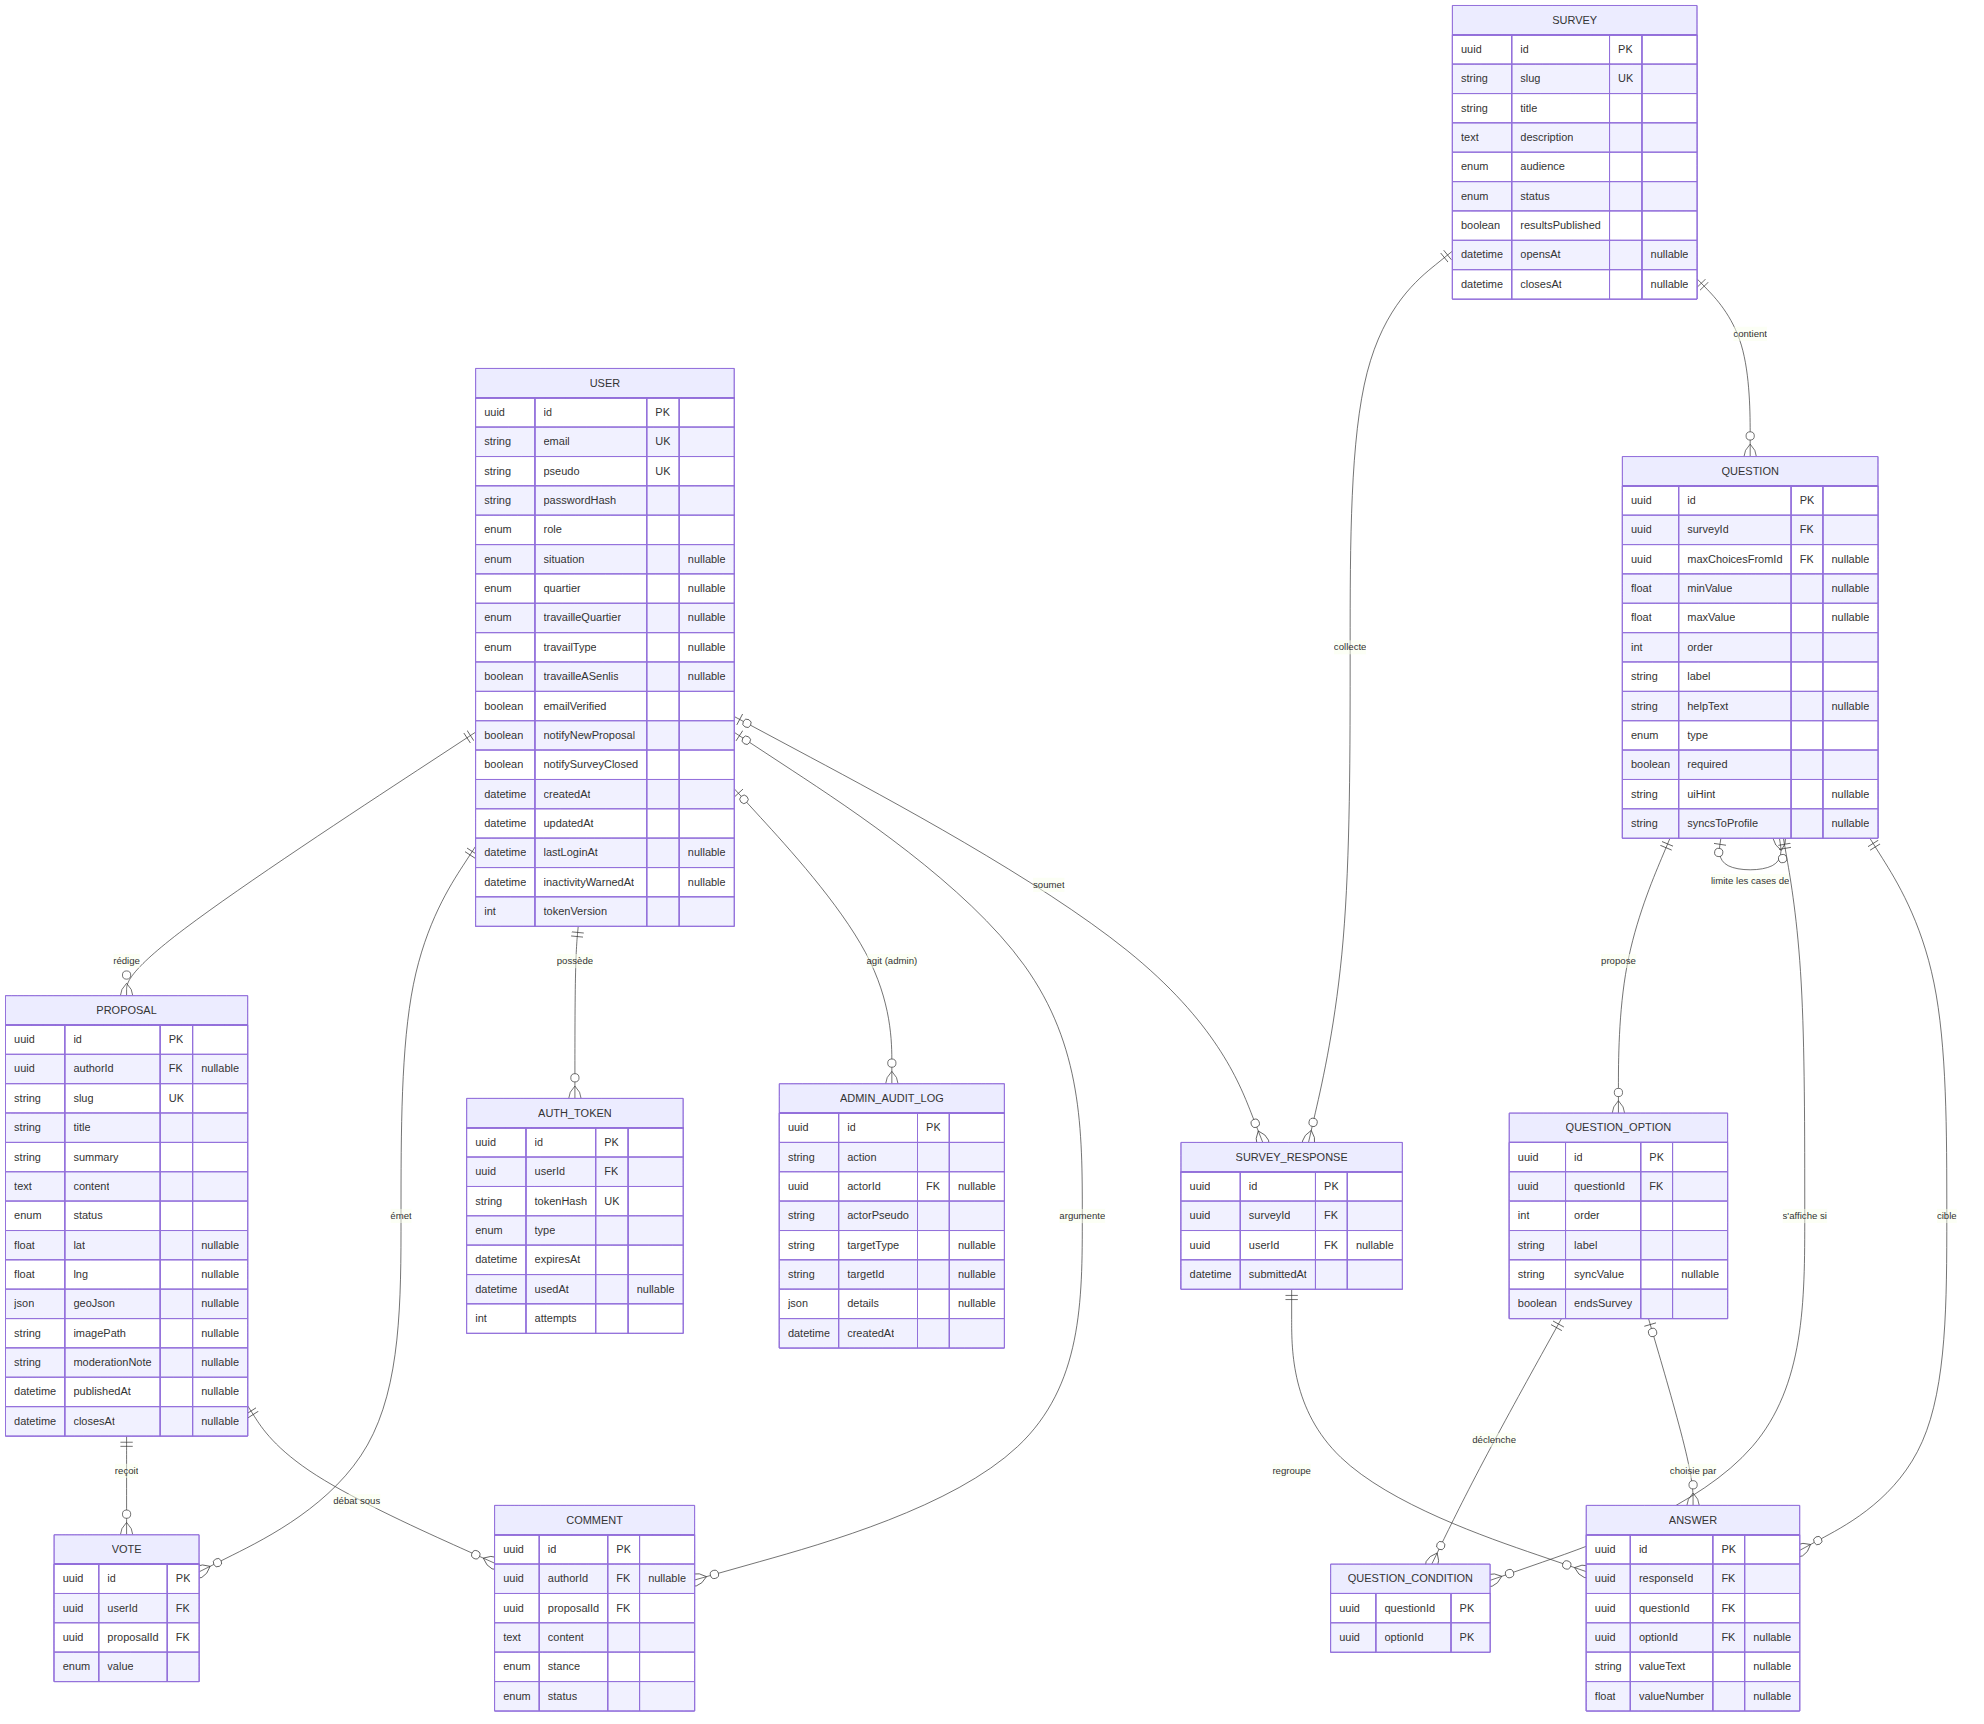
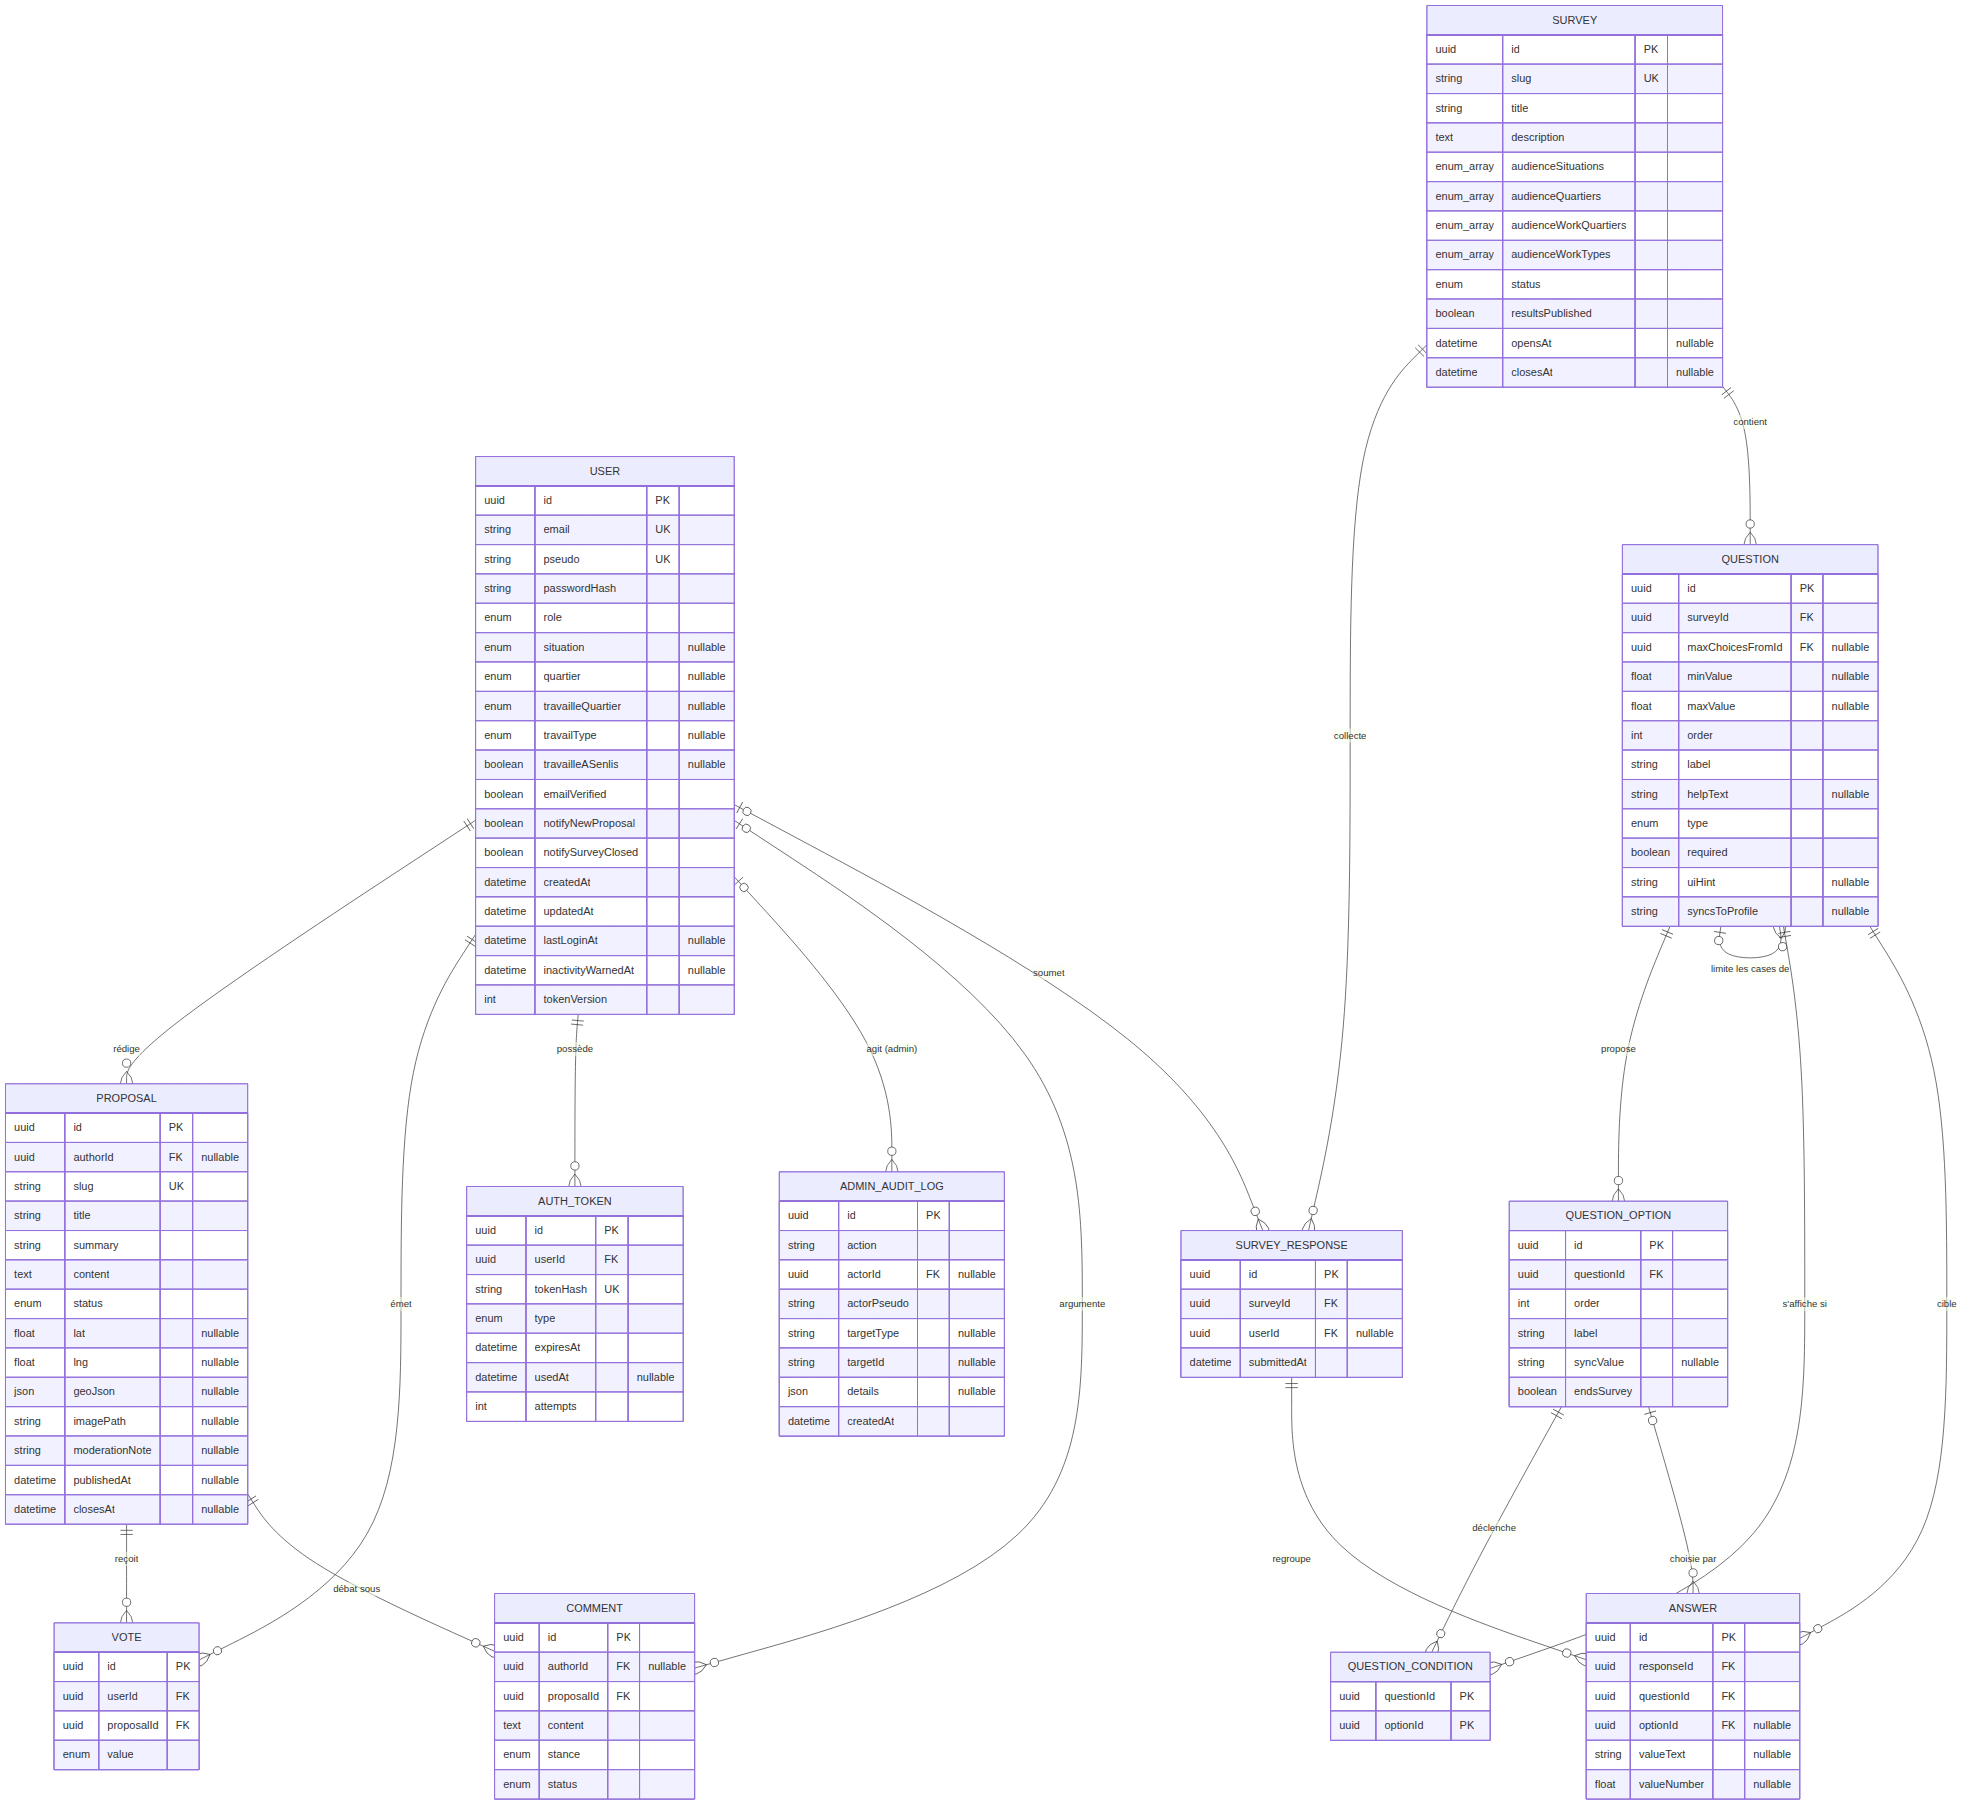
docs: S5R-07 — public visé par critères (01, 02, 03, 08, 19), kanban (16)

diff --git a/08-merise-mcd-mld-mpd.md b/08-merise-mcd-mld-mpd.md
@@ -49,7 +49,7 @@ flowchart TB
     slug
     titre
     description
-    audience
+    public visé (critères de profil)
     statut
     résultats publiés
     dates (ouverture, clôture)"]
@@ -144,7 +144,8 @@ Comment (id, content, stance, status, createdAt, #authorId, #proposalId)
      PK : id · FK : authorId → User(id) [NULLABLE]
      FK : proposalId → Proposal(id)
 
-Survey (id, slug, title, description, audience, status, resultsPublished,
+Survey (id, slug, title, description, audienceSituations, audienceQuartiers,
+        audienceWorkQuartiers, audienceWorkTypes, status, resultsPublished,
         opensAt, closesAt, createdAt)
      PK : id · UNIQUE : slug
 
@@ -182,7 +183,7 @@ Answer (id, valueText, valueNumber, #responseId, #questionId, #optionId)
 
 ## 3. MPD — Modèle Physique de Données (PostgreSQL)
 
-Reconstitution **fidèle** (réordonnée pour la lecture) de ce que génèrent les migrations Prisma (`api/prisma/migrations/`, 12 migrations du 15/06 au 03/10/2026), cumulées. Trois différences avec un SQL « écrit à la main » à connaître :
+Reconstitution **fidèle** (réordonnée pour la lecture) de ce que génèrent les migrations Prisma (`api/prisma/migrations/`, 13 migrations du 15/06 au 03/10/2026), cumulées. Trois différences avec un SQL « écrit à la main » à connaître :
 
 1. **Identifiants en `TEXT`**, pas en `UUID` : `@default(uuid())` génère l'UUID **dans Node** (Prisma), pas dans PostgreSQL (`gen_random_uuid()` n'est jamais appelé).
 2. **Noms entre guillemets en `camelCase`** (`"passwordHash"`) : sans guillemets, PostgreSQL mettrait tout en minuscules.
@@ -198,7 +199,6 @@ CREATE TYPE "Stance"         AS ENUM ('POUR', 'CONTRE', 'NEUTRE');
 CREATE TYPE "TokenType"      AS ENUM ('VERIFY_EMAIL', 'RESET_PASSWORD', 'TWO_FACTOR_LOGIN');
 CREATE TYPE "VoteValue"      AS ENUM ('POUR', 'CONTRE', 'NEUTRE');
 CREATE TYPE "SurveyStatus"   AS ENUM ('DRAFT', 'OPEN', 'CLOSED');
-CREATE TYPE "Audience"       AS ENUM ('TOUS', 'RESIDENTS', 'COMMERCANTS');
 CREATE TYPE "QuestionType"   AS ENUM ('CHOIX_UNIQUE','CHOIX_MULTIPLE',
                                       'NOMBRE','OUI_NON','TEXTE_LIBRE');
 CREATE TYPE "Situation"      AS ENUM ('CENTRE_RESIDENT', 'AUTRE_QUARTIER', 'HORS_SENLIS');
@@ -287,7 +287,11 @@ CREATE TABLE "Survey" (
   "slug"             TEXT NOT NULL,
   "title"            TEXT NOT NULL,
   "description"      TEXT NOT NULL,
-  "audience"         "Audience" NOT NULL DEFAULT 'TOUS',
+  -- S5R-07 : public visé par critères de profil (listes vides = tout le monde)
+  "audienceSituations"    "Situation"[]   DEFAULT ARRAY[]::"Situation"[],
+  "audienceQuartiers"     "Quartier"[]    DEFAULT ARRAY[]::"Quartier"[],
+  "audienceWorkQuartiers" "Quartier"[]    DEFAULT ARRAY[]::"Quartier"[],
+  "audienceWorkTypes"     "TravailType"[] DEFAULT ARRAY[]::"TravailType"[],
   "status"           "SurveyStatus" NOT NULL DEFAULT 'DRAFT',
   "resultsPublished" BOOLEAN NOT NULL DEFAULT false,
   "opensAt"          TIMESTAMP(3),

diff --git a/16-kanban-issues-complet.md b/16-kanban-issues-complet.md
@@ -169,7 +169,7 @@
 | **S5R-05** | **`feat(api+bdd+client): moteur d'enquête v2 — total de questions adapté au parcours, conditions multiples (OU), fin anticipée, bornes min/max d'un nombre, nombre de choix max lié à une réponse, profil « travaille à Senlis » explicite`** ✅ | **`lot:1` `type:feature` `zone:api` `zone:bdd` `zone:client` `prio:haute`** | **`feat/survey-engine-v2`** | **2 j** | **J76–J77** |
 | **S5R-05b** | **`fix(api+client): limiteur des routes d'authentification — réponse JSON lisible (et non « erreur réseau »), seuls les échecs comptent, limite large en développement`** ✅ *(constaté pendant la recette de S5R-05)* | **`lot:1` `type:bug` `zone:api` `zone:client`** | **`fix/auth-rate-limit-json`** | **—** | **J77** |
 | **S5R-06** | **`feat(data+client): enquête stationnement v3 — parcours par profil, questions clés obligatoires, « Autre → laquelle ? », questions propres au centre historique, visiteurs venant en centre-ville ; page de présentation sans le « 34 questions » trompeur (nombre selon le profil)`** ✅ | **`lot:1` `type:feature` `zone:bdd`** | **`feat/parking-survey-v3`** | **1 j** | **J78** |
-| **S5R-07** | **`feat(api+bdd+client): public visé d'une enquête par critères de profil (résidence, quartier, travail, rôle, hors Senlis)`** | **`lot:1` `type:feature` `zone:api` `zone:bdd` `zone:client`** | **`feat/survey-audience-profiles`** | **1 j** | **J79** |
+| **S5R-07** | **`feat(api+bdd+client): public visé d'une enquête par critères de profil (résidence, quartier, travail, rôle, hors Senlis)`** ✅ | **`lot:1` `type:feature` `zone:api` `zone:bdd` `zone:client`** | **`feat/survey-audience-profiles`** | **1 j** | **J79** |
 | **S5R-08** | **`feat(api+client): résultats d'enquête lisibles — filtre par public puis par question, graphiques, export CSV et JSON (secret statistique conservé)`** | **`lot:1` `type:feature` `zone:api` `zone:client` `prio:haute`** | **`feat/survey-results-charts-export`** | **2 j** | **J80–J81** |
 | **S5R-09** | **`feat(client): création d'enquête simplifiée — aides sous chaque champ, exemples, modèle prêt à l'emploi, dupliquer une question`** | **`lot:1` `type:feature` `zone:client`** | **`feat/survey-builder-help`** | **1 j** | **J82** |
 | **S5R-10** | **`feat(api+bdd+client): zone d'une proposition — toute la ville ou quartiers IRIS ; coordonnées et GeoJSON sous « Avancé » ; aides de saisie`** | **`lot:1` `type:feature` `zone:api` `zone:bdd` `zone:client`** | **`feat/proposal-zone-quartiers`** | **1 j** | **J83** |

diff --git a/01-cahier-des-charges-v1.4.md b/01-cahier-des-charges-v1.4.md
@@ -69,7 +69,7 @@ Le projet est porté à titre personnel, hors de tout cadre institutionnel, avec
 
 **Administratrice**
 - Créer / éditer / publier / clore une proposition (point géolocalisé + périmètre GeoJSON)
-- Créer une enquête : questions typées (choix unique, choix multiple, nombre, oui/non, texte libre), audience ciblée (tous / résidents / commerçants)
+- Créer une enquête : questions typées (choix unique, choix multiple, nombre, oui/non, texte libre), public visé par critères de profil (résidence, quartier, travail, rôle, hors Senlis — S5R-07)
 - Ouvrir / clore une enquête, consulter les résultats agrégés (comptages par option, moyennes)
 - Conditionner l'affichage d'une question à une réponse antérieure (branchement), relier une question au profil du répondant
 - Décider **quand** les résultats deviennent publics ; consulter une vue détaillée, segmentée par profil de répondant, imprimable en PDF
@@ -326,7 +326,7 @@ Note : les animations CSS de la mascotte utilisent exclusivement des propriété
 
 **Administrateur**
 - En tant qu'admin, je peux rédiger et publier une proposition géolocalisée afin de lancer une concertation.
-- En tant qu'admin, je peux construire un questionnaire sur mesure (types de questions variés, audience ciblée) sans modification du code afin de lancer de nouvelles enquêtes rapidement.
+- En tant qu'admin, je peux construire un questionnaire sur mesure (types de questions variés, public visé par critères de profil) sans modification du code afin de lancer de nouvelles enquêtes rapidement.
 - En tant qu'admin, je peux consulter les résultats agrégés afin de produire un argumentaire chiffré à présenter à la mairie.
 - En tant qu'admin, je peux segmenter les résultats par profil de répondant (habitant du centre, actif à Senlis, visiteur) et les imprimer en PDF, afin de montrer à la mairie que chaque public a été entendu.
 - En tant qu'admin, je décide du moment où les résultats deviennent publics, afin de les vérifier avant diffusion.

diff --git a/03-dictionnaire-de-donnees.md b/03-dictionnaire-de-donnees.md
@@ -87,7 +87,10 @@
 | slug | String | UNIQUE, NOT NULL | Identifiant d'URL |
 | title | String | NOT NULL | Titre (« Stationnement et déplacements dans le centre historique ») |
 | description | Text | NOT NULL | Contexte affiché en tête du questionnaire |
-| audience | Audience | défaut `TOUS` | Cible : `TOUS` / `RESIDENTS` / `COMMERCANTS` |
+| audienceSituations | Situation[] | défaut `[]` | Public visé, famille RÉSIDENCE : situations visées (S5R-07) |
+| audienceQuartiers | Quartier[] | défaut `[]` | Pour « autre quartier » : lesquels (vide = tous les autres quartiers) |
+| audienceWorkQuartiers | Quartier[] | défaut `[]` | Public visé, famille TRAVAIL : quartiers de travail (vide = n'importe où) |
+| audienceWorkTypes | TravailType[] | défaut `[]` | Rôles visés : dirigeant·e, salarié·e (vide = tous). Toutes les listes vides = tout le monde ; les deux familles se combinent par un OU (voir `lib/audience.js`) |
 | status | SurveyStatus | défaut `DRAFT` | `DRAFT` → `OPEN` → `CLOSED` |
 | resultsPublished | Boolean | défaut `false` | Distinct du statut : l'admin décide quand les résultats deviennent publics (avant : visibles par l'admin seul) |
 | opensAt / closesAt | DateTime | NULL | Fenêtre de collecte |
@@ -177,7 +180,6 @@
 | Stance | POUR, CONTRE, NEUTRE | Position d'un argument (Lot 2) |
 | CommentStatus | PENDING, APPROVED, REJECTED | Modération a priori (Lot 2) |
 | SurveyStatus | DRAFT, OPEN, CLOSED | Cycle de vie d'une enquête |
-| Audience | TOUS, RESIDENTS, COMMERCANTS | Ciblage d'une enquête |
 | QuestionType | CHOIX_UNIQUE, CHOIX_MULTIPLE, NOMBRE, OUI_NON, TEXTE_LIBRE | Type de saisie d'une question |
 | TokenType | VERIFY_EMAIL, RESET_PASSWORD, TWO_FACTOR_LOGIN | Nature d'un jeton email (lien ou code 2FA admin) |
 | Situation | CENTRE_RESIDENT, AUTRE_QUARTIER, HORS_SENLIS | Résidence déclarée (`CENTRE_COMMERCANT` retiré le 22/09/2026 : redondant avec l'axe travail) |

diff --git a/02-diagramme-erd.md b/02-diagramme-erd.md
@@ -1,6 +1,6 @@
 # Diagramme ERD — Senlis Participatif
 
-> Schéma de la base de données (v1.5 — état au 03/10/2026, après la migration `survey_engine_v2` de S5R-05) — source de vérité : `api/prisma/schema.prisma` du dépôt de code (copie de référence : `19-schema.prisma`).
+> Schéma de la base de données (v1.6 — état au 03/10/2026, après la migration `survey_audience_profiles` de S5R-07) — source de vérité : `api/prisma/schema.prisma` du dépôt de code (copie de référence : `19-schema.prisma`).
 > Légende : `||--o{` = un-à-plusieurs · `|o--o{` = la clé étrangère est **nullable** (pseudonymisation RGPD, ou lien optionnel : le lien peut être rompu sans perdre la donnée).
 >
 > **Ce qui a changé depuis la v1.1** (Sprint 3 et Sprint 5bis) : image de proposition (`imagePath`), code 2FA admin (`TWO_FACTOR_LOGIN`), profil déclaré du citoyen sur deux axes indépendants — résidence (`situation`, `quartier`) et travail (`travailleQuartier`, `travailType`) —, publication des résultats d'enquête soumise à l'admin (`resultsPublished`), branchement conditionnel de questions (`showIfOptionId`, relation réflexive QUESTION → QUESTION_OPTION), indicateur de rendu (`uiHint`) et synchronisation réponse → profil (`syncsToProfile` / `syncValue`).
@@ -99,7 +99,10 @@ erDiagram
         string slug UK
         string title
         text description
-        enum audience
+        enum_array audienceSituations
+        enum_array audienceQuartiers
+        enum_array audienceWorkQuartiers
+        enum_array audienceWorkTypes
         enum status
         boolean resultsPublished
         datetime opensAt "nullable"
